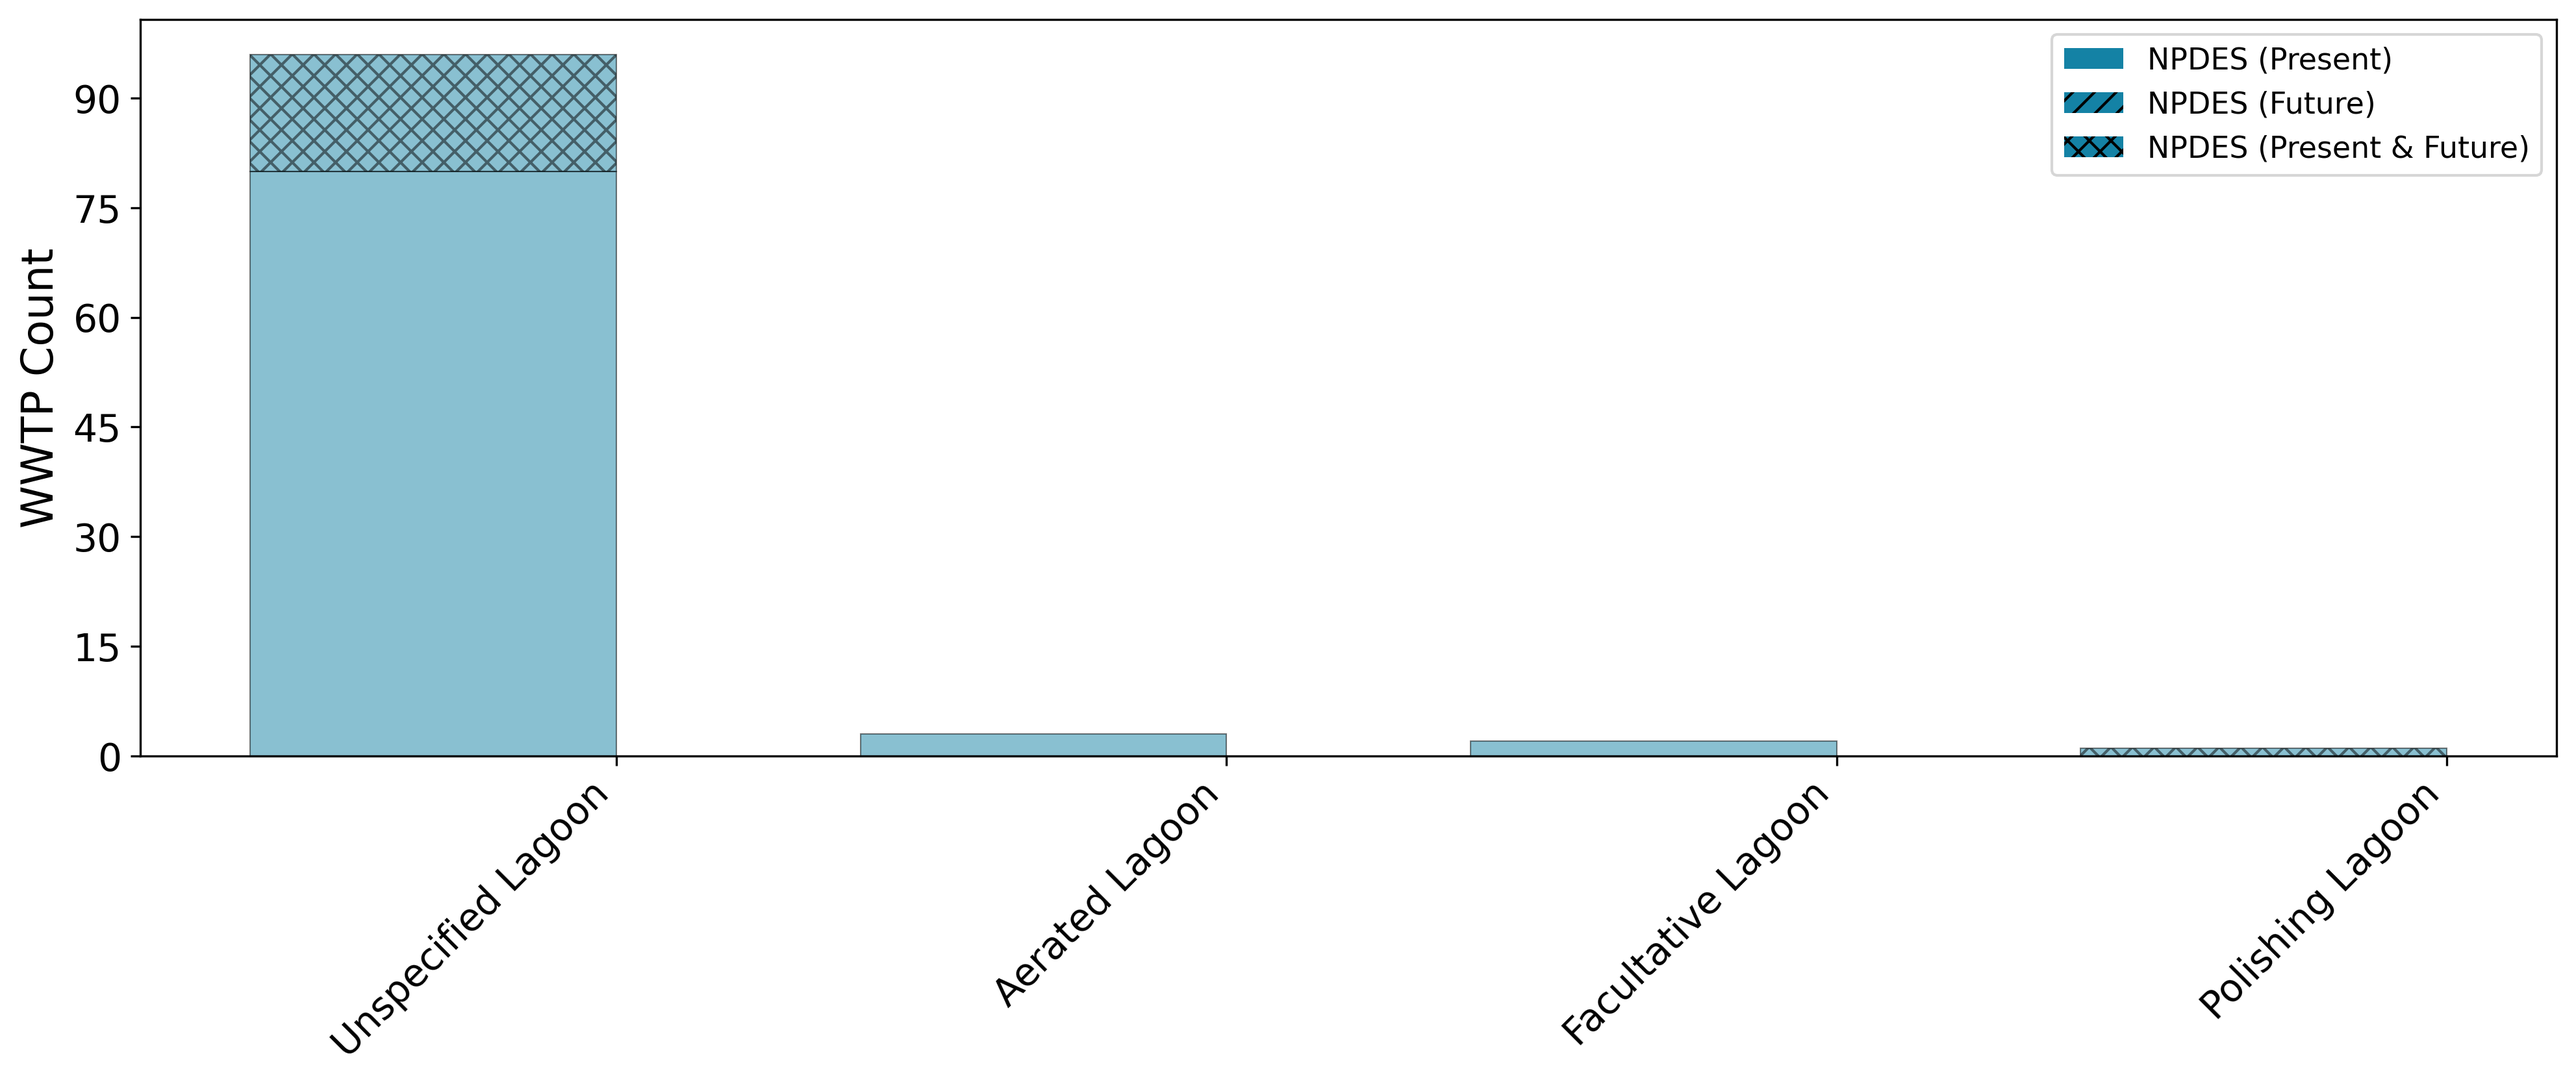
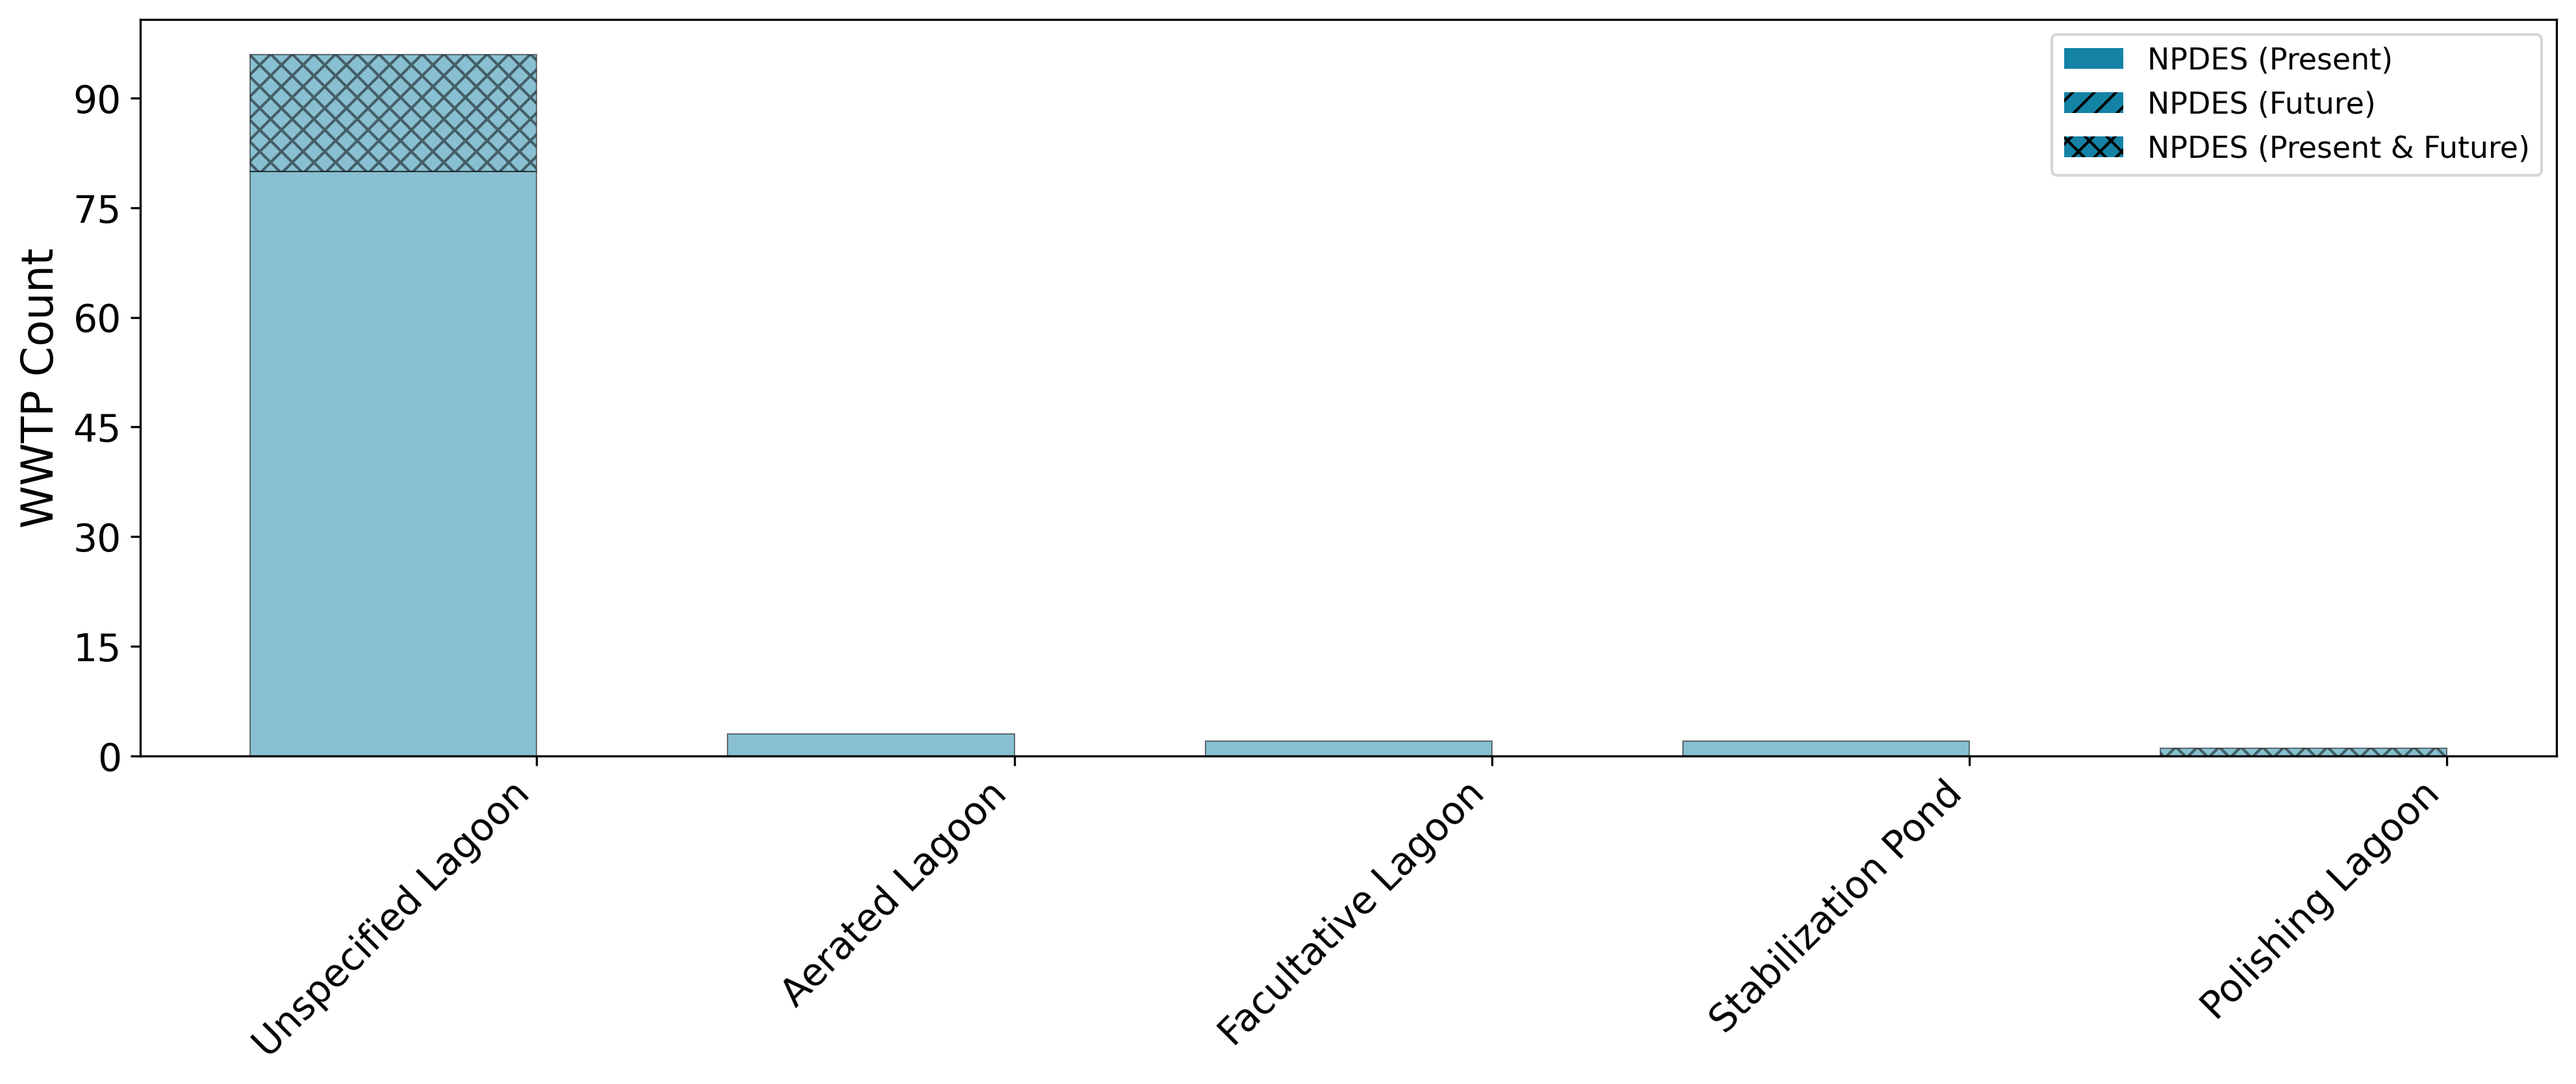
Initial updates

diff --git a/npdes_permits/step5a_compare_aggregate_results.py b/npdes_permits/step5a_compare_aggregate_results.py
@@ -604,7 +604,7 @@ for col in all_sheet_process_cols:
     # cwns_col = SHEET_TO_CWNS_COL.get(col, col)
     # if cwns_col in cwns_common.columns:
     print(col)
-    print(cwns_common.keys())
+    # print(cwns_common.keys())
     cwns_count = int(build_cwns_presence_mask(cwns_common[col]).sum())
     process_counts.append({
         'process': col,
@@ -629,6 +629,79 @@ for row in sorted(process_counts, key=lambda r: r['pfd'], reverse=True):
     if row['pfd'] > 0 or row['npdes_text'] > 0 or row['cwns'] > 0:
         print(f"{row['process']:<40} {row['pfd']:>5} {row['npdes_text']:>5} {row['cwns']:>5}")
 
+def is_yes(val):
+    """Check if a cell value means the process is present."""
+    return str(val).strip().upper() in ('YES', 'PLANNED')
+
+# ==============================================================================
+# SIMPLIFIED GROUND TRUTH COMPARISON: +/- % vs PFD grouped by JSON category
+# ==============================================================================
+
+# Build mapping from leaf process name -> top-level JSON category
+leaf_to_category = {}
+for cat_name, cat_value in unitprocess_keywords.items():
+    if isinstance(cat_value, dict) and 'alt_names' in cat_value:
+        # Leaf-level category (e.g. Comminution, Grit Removal)
+        leaf_to_category[cat_name] = cat_name
+    else:
+        for leaf_name, _, _ in extract_leaves(cat_value):
+            leaf_to_category[leaf_name] = cat_name
+
+# Aggregate facility-level counts per category using set unions to avoid double-counting
+from collections import defaultdict
+cat_pfd_facilities = defaultdict(set)
+cat_npdes_facilities = defaultdict(set)
+cat_cwns_facilities = defaultdict(set)
+
+for col in all_sheet_process_cols:
+    category = leaf_to_category.get(col, col)
+    # PFD
+    if col in pfd_common.columns:
+        for _, row in pfd_common.iterrows():
+            if is_yes(row.get(col, '')):
+                cat_pfd_facilities[category].add(row['NPDES_No'])
+    # NPDES text
+    if col in text_common.columns:
+        for _, row in text_common.iterrows():
+            if is_yes(row.get(col, '')):
+                cat_npdes_facilities[category].add(row['NPDES_No'])
+    # CWNS
+    if col in cwns_common.columns:
+        mask = build_cwns_presence_mask(cwns_common[col])
+        for permit in cwns_common.loc[mask, 'PERMIT_NUMBER']:
+            cat_cwns_facilities[category].add(permit)
+
+# Build summary rows
+all_cats = sorted(set(list(cat_pfd_facilities.keys()) + list(cat_npdes_facilities.keys()) + list(cat_cwns_facilities.keys())))
+gt_simple_rows = []
+for cat in all_cats:
+    pfd = len(cat_pfd_facilities[cat])
+    npdes = len(cat_npdes_facilities[cat])
+    cwns = len(cat_cwns_facilities[cat])
+    if pfd == 0 and npdes == 0 and cwns == 0:
+        continue
+    if pfd > 0:
+        npdes_str = f"{(npdes - pfd) / pfd * 100:+.0f}%"
+        cwns_str = f"{(cwns - pfd) / pfd * 100:+.0f}%"
+    else:
+        npdes_str = f"+{npdes}" if npdes > 0 else "0"
+        cwns_str = f"+{cwns}" if cwns > 0 else "0"
+    gt_simple_rows.append({
+        'Process_Category': cat,
+        'PFD_Ground_Truth': pfd,
+        'NPDES_Manual': npdes,
+        'NPDES_vs_GT': npdes_str,
+        'CWNS': cwns,
+        'CWNS_vs_GT': cwns_str,
+    })
+
+gt_simple_df = pd.DataFrame(gt_simple_rows)
+gt_simple_df = gt_simple_df.sort_values('PFD_Ground_Truth', ascending=False).reset_index(drop=True)
+gt_simple_csv = f'npdes_permits/output/{DATE_FOLDER}/ground_truth_summary.csv'
+gt_simple_df.to_csv(gt_simple_csv, index=False)
+print(f"\nSaved simplified ground truth comparison: {os.path.basename(gt_simple_csv)}")
+print(gt_simple_df.to_string(index=False))
+
 
 # ==============================================================================
 # PER-FACILITY COMPARISON TABLE: NPDES Text & CWNS vs Ground Truth (PFD)
@@ -636,11 +709,6 @@ for row in sorted(process_counts, key=lambda r: r['pfd'], reverse=True):
 print("\n" + "="*80)
 print("FACILITY-LEVEL COMPARISON TO GROUND TRUTH (PFD)")
 print("="*80)
-
-
-def is_yes(val):
-    """Check if a cell value means the process is present."""
-    return str(val).strip().upper() in ('YES', 'PLANNED')
 
 
 facility_rows = []

diff --git a/npdes_permits/step4_postprocess_llm_output.py b/npdes_permits/step4_postprocess_llm_output.py
@@ -11,6 +11,8 @@ ontology = Graph()
 # GITHUB_BASE = "https://raw.githubusercontent.com/DataDrivenCPS/water-ontology/main/water"
 GITHUB_BASE = "https://raw.githubusercontent.com/DataDrivenCPS/water-ontology/constance/ontology_to_txt/water"
 
+# TODO: handle secondary category
+# Currently doesn't flag ontology "mistakes" e.g. identification of Sedimentation Basin without Process:Sedimentation
 
 input_dir = Path('npdes_permits/output/2026-2-18/llm_search_ontology')
 output_csv = Path('npdes_permits/output/llm_unit_processes_by_facility.csv')
